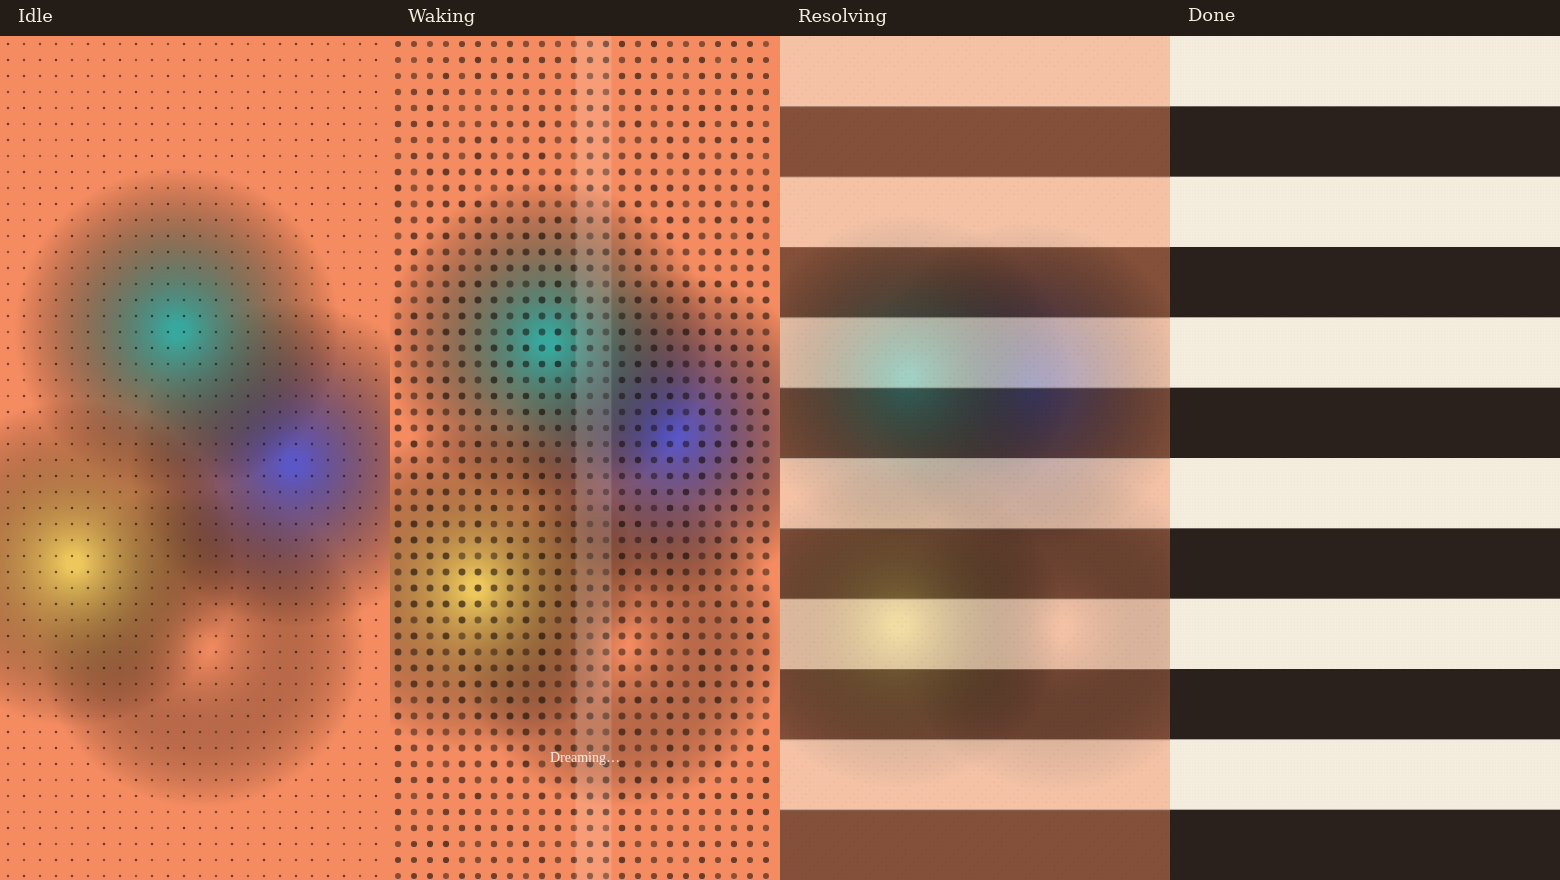
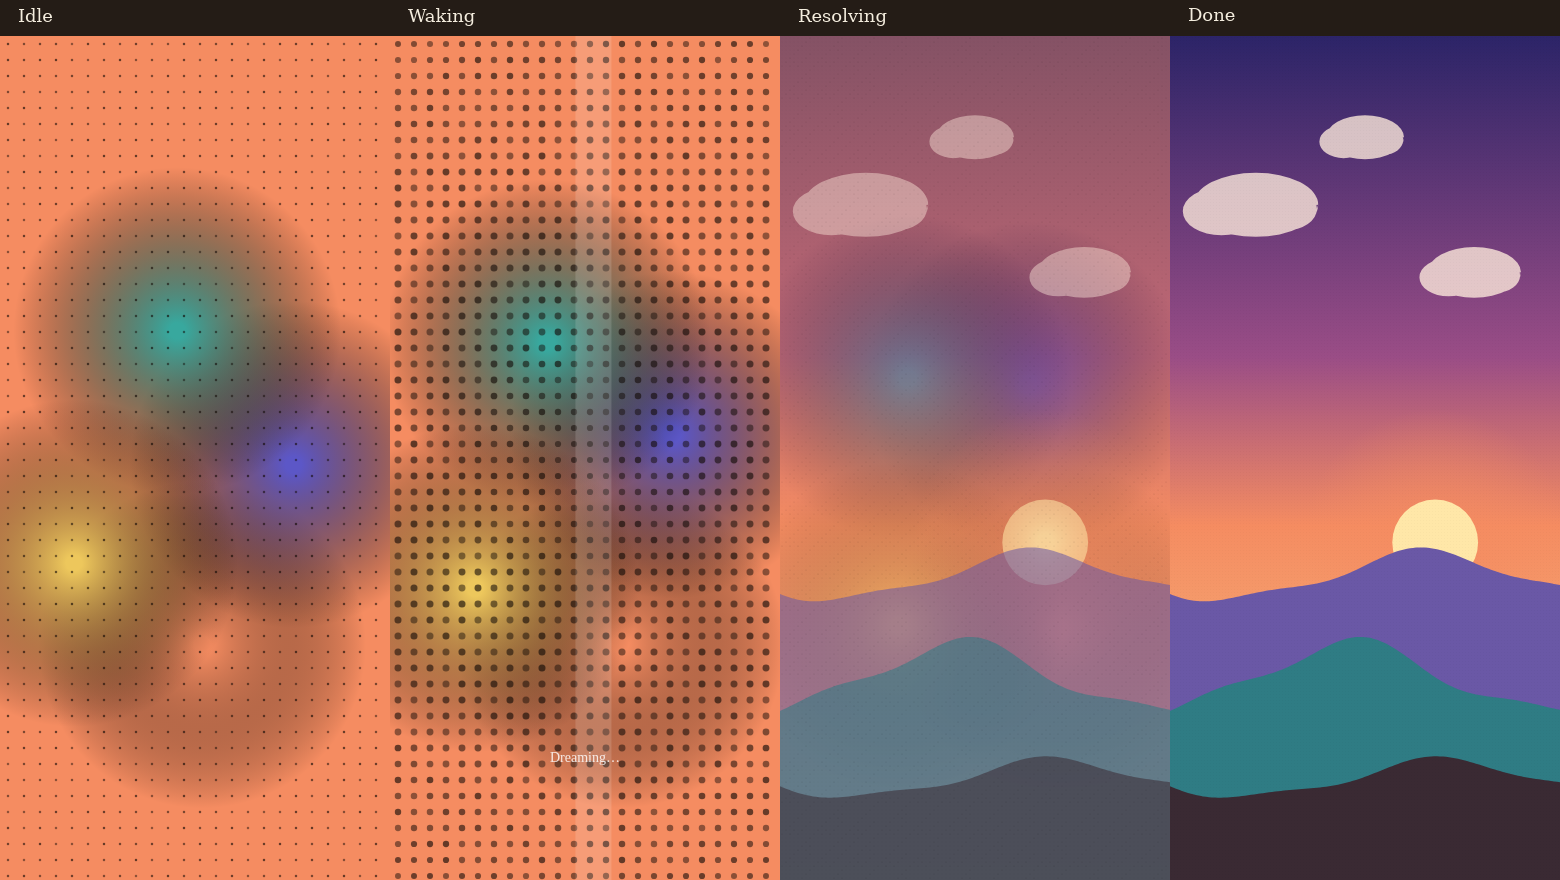
Draw a sunset as the Grain Bloom sample picture.
The web preview and the gallery demo were resolving into horizontal stripes. Both now draw a sun, clouds, and layered hills in the component palette, so the dither reveals a picture. The core trace is unchanged.

diff --git a/Sources/GrainBloomPlaceholder/GrainBloomPlaceholder.swift b/Sources/GrainBloomPlaceholder/GrainBloomPlaceholder.swift
@@ -195,22 +195,139 @@ public struct GrainBloomPlaceholder: View {
     }
 }
 
+/// The gallery's sample picture: a soft sunset, drawn the same way as the web port.
+enum GrainBloomSunset {
+    static let size = CGSize(width: 390, height: 844)
+
+    static func image() -> Image {
+        guard let cg = makeImage() else { return Image(systemName: "sun.horizon.fill") }
+        #if canImport(UIKit)
+        return Image(uiImage: UIImage(cgImage: cg))
+        #elseif canImport(AppKit)
+        return Image(nsImage: NSImage(cgImage: cg, size: size))
+        #else
+        return Image(systemName: "sun.horizon.fill")
+        #endif
+    }
+
+    private static func makeImage() -> CGImage? {
+        let width = Int(size.width)
+        let height = Int(size.height)
+        let space = CGColorSpaceCreateDeviceRGB()
+        guard let context = CGContext(
+            data: nil,
+            width: width,
+            height: height,
+            bitsPerComponent: 8,
+            bytesPerRow: width * 4,
+            space: space,
+            bitmapInfo: CGImageAlphaInfo.premultipliedLast.rawValue
+        ) else { return nil }
+        context.translateBy(x: 0, y: CGFloat(height))
+        context.scaleBy(x: 1, y: -1)
+        draw(context, size: size)
+        return context.makeImage()
+    }
+
+    private static func draw(_ context: CGContext, size: CGSize) {
+        let width = size.width
+        let height = size.height
+        let colors = [
+            CGColor(red: 0.173, green: 0.141, blue: 0.408, alpha: 1),
+            CGColor(red: 0.604, green: 0.302, blue: 0.525, alpha: 1),
+            CGColor(red: 0.961, green: 0.549, blue: 0.380, alpha: 1),
+            CGColor(red: 0.953, green: 0.788, blue: 0.541, alpha: 1),
+        ] as CFArray
+        let stops: [CGFloat] = [0, 0.38, 0.58, 1]
+        if let gradient = CGGradient(colorsSpace: CGColorSpaceCreateDeviceRGB(), colors: colors, locations: stops) {
+            context.drawLinearGradient(
+                gradient,
+                start: CGPoint(x: 0, y: 0),
+                end: CGPoint(x: 0, y: height),
+                options: []
+            )
+        }
+        let sun = CGPoint(x: width * 0.68, y: height * 0.60)
+        let radius = min(width, height) * 0.11
+        if let glow = CGGradient(
+            colorsSpace: CGColorSpaceCreateDeviceRGB(),
+            colors: [
+                CGColor(red: 1, green: 0.894, blue: 0.667, alpha: 0.95),
+                CGColor(red: 0.961, green: 0.549, blue: 0.380, alpha: 0.55),
+                CGColor(red: 0.961, green: 0.549, blue: 0.380, alpha: 0),
+            ] as CFArray,
+            locations: [0, 0.28, 1]
+        ) {
+            context.drawRadialGradient(
+                glow,
+                startCenter: sun,
+                startRadius: radius * 0.2,
+                endCenter: sun,
+                endRadius: radius * 3.1,
+                options: []
+            )
+        }
+        context.setFillColor(CGColor(red: 1, green: 0.906, blue: 0.659, alpha: 1))
+        context.fillEllipse(in: CGRect(x: sun.x - radius, y: sun.y - radius, width: radius * 2, height: radius * 2))
+        cloud(context, cx: width * 0.22, cy: height * 0.20, rw: width * 0.16, rh: height * 0.038)
+        cloud(context, cx: width * 0.50, cy: height * 0.12, rw: width * 0.10, rh: height * 0.026)
+        cloud(context, cx: width * 0.78, cy: height * 0.28, rw: width * 0.12, rh: height * 0.030)
+        hill(context, width: width, height: height, baseline: height * 0.64, amplitude: height * 0.028, phase: 0.6, color: CGColor(red: 0.416, green: 0.345, blue: 0.651, alpha: 1))
+        hill(context, width: width, height: height, baseline: height * 0.76, amplitude: height * 0.040, phase: 1.8, color: CGColor(red: 0.184, green: 0.486, blue: 0.518, alpha: 1))
+        hill(context, width: width, height: height, baseline: height * 0.88, amplitude: height * 0.022, phase: 0.3, color: CGColor(red: 0.227, green: 0.165, blue: 0.200, alpha: 1))
+    }
+
+    private static func cloud(_ context: CGContext, cx: CGFloat, cy: CGFloat, rw: CGFloat, rh: CGFloat) {
+        context.setFillColor(CGColor(red: 1, green: 0.925, blue: 0.863, alpha: 0.78))
+        context.fillEllipse(in: CGRect(x: cx - rw, y: cy - rh, width: rw * 2, height: rh * 2))
+        context.fillEllipse(in: CGRect(x: cx - rw * 1.17, y: cy - rh * 0.55, width: rw * 1.24, height: rh * 1.5))
+        context.fillEllipse(in: CGRect(x: cx - rw * 0.02, y: cy - rh * 0.56, width: rw, height: rh * 1.36))
+    }
+
+    private static func hill(
+        _ context: CGContext,
+        width: CGFloat,
+        height: CGFloat,
+        baseline: CGFloat,
+        amplitude: CGFloat,
+        phase: CGFloat,
+        color: CGColor
+    ) {
+        let path = CGMutablePath()
+        path.move(to: CGPoint(x: 0, y: height))
+        path.addLine(to: CGPoint(x: 0, y: baseline))
+        var x: CGFloat = 0
+        while x <= width {
+            let u = x / width
+            let y = baseline
+                + sin(u * .pi * 2 + phase) * amplitude
+                + sin(u * .pi * 5 + phase * 1.7) * amplitude * 0.22
+            path.addLine(to: CGPoint(x: x, y: y))
+            x += 3
+        }
+        path.addLine(to: CGPoint(x: width, y: height))
+        path.closeSubpath()
+        context.addPath(path)
+        context.setFillColor(color)
+        context.fillPath()
+    }
+}
+
 public struct GrainBloomPlaceholderDemo: View {
     @State private var generating = false
-    @State private var showImage = false
+    @State private var picture: Image?
 
     public init() {}
 
     public var body: some View {
         VStack(spacing: 20) {
-            GrainBloomPlaceholder(
-                image: showImage ? Image(systemName: "photo.fill") : nil,
-                isGenerating: generating
-            )
-            .frame(width: 260)
+            GrainBloomPlaceholder(image: picture, isGenerating: generating)
+                .frame(width: 260)
             HStack {
                 Button(generating ? "Stop" : "Generate") { generating.toggle() }
-                Button(showImage ? "Clear image" : "Image arrives") { showImage.toggle() }
+                Button(picture == nil ? "Image arrives" : "Clear image") {
+                    picture = picture == nil ? GrainBloomSunset.image() : nil
+                }
             }
             .buttonStyle(.bordered)
         }

diff --git a/webports/grainbloom.html b/webports/grainbloom.html
@@ -22,6 +22,62 @@
     const ctx = stage.getContext("2d");
     const colors = ["#f58c61", "#5c57c7", "#38a89e", "#edc75c"];
 
+    function drawSunset(g, w, h) {
+      const sky = g.createLinearGradient(0, 0, 0, h);
+      sky.addColorStop(0, "#2c2468");
+      sky.addColorStop(0.38, "#9a4d86");
+      sky.addColorStop(0.58, "#f58c61");
+      sky.addColorStop(1, "#f3c98a");
+      g.fillStyle = sky;
+      g.fillRect(0, 0, w, h);
+
+      const sunX = w * 0.68;
+      const sunY = h * 0.6;
+      const sunR = Math.min(w, h) * 0.11;
+      const glow = g.createRadialGradient(sunX, sunY, sunR * 0.2, sunX, sunY, sunR * 3.1);
+      glow.addColorStop(0, "rgba(255, 228, 170, 0.95)");
+      glow.addColorStop(0.28, "rgba(245, 140, 97, 0.55)");
+      glow.addColorStop(1, "rgba(245, 140, 97, 0)");
+      g.fillStyle = glow;
+      g.fillRect(0, 0, w, h);
+      g.beginPath();
+      g.fillStyle = "#ffe7a8";
+      g.arc(sunX, sunY, sunR, 0, Math.PI * 2);
+      g.fill();
+
+      function cloud(cx, cy, rw, rh) {
+        g.beginPath();
+        g.fillStyle = "rgba(255, 236, 220, 0.78)";
+        g.ellipse(cx, cy, rw, rh, 0, 0, Math.PI * 2);
+        g.ellipse(cx - rw * 0.55, cy + rh * 0.2, rw * 0.62, rh * 0.75, 0, 0, Math.PI * 2);
+        g.ellipse(cx + rw * 0.48, cy + rh * 0.12, rw * 0.5, rh * 0.68, 0, 0, Math.PI * 2);
+        g.fill();
+      }
+      cloud(w * 0.22, h * 0.2, w * 0.16, h * 0.038);
+      cloud(w * 0.5, h * 0.12, w * 0.1, h * 0.026);
+      cloud(w * 0.78, h * 0.28, w * 0.12, h * 0.03);
+
+      function hill(baseline, amplitude, color, phase) {
+        g.beginPath();
+        g.moveTo(0, h);
+        g.lineTo(0, baseline);
+        for (let x = 0; x <= w; x += 3) {
+          const u = x / w;
+          const y = baseline
+            + Math.sin(u * Math.PI * 2 + phase) * amplitude
+            + Math.sin(u * Math.PI * 5 + phase * 1.7) * amplitude * 0.22;
+          g.lineTo(x, y);
+        }
+        g.lineTo(w, h);
+        g.closePath();
+        g.fillStyle = color;
+        g.fill();
+      }
+      hill(h * 0.64, h * 0.028, "#6a58a6", 0.6);
+      hill(h * 0.76, h * 0.04, "#2f7c84", 1.8);
+      hill(h * 0.88, h * 0.022, "#3a2a33", 0.3);
+    }
+
     function paint(model, target, w, h) {
       const g = target.getContext("2d");
       g.clearRect(0, 0, w, h);
@@ -41,10 +97,7 @@
         const alpha = model.reduceMotion ? model.crossfade : model.resolveProgress;
         g.save();
         g.globalAlpha = alpha;
-        for (let band = 0; band < 12; band += 1) {
-          g.fillStyle = band % 2 === 0 ? "#f4edde" : "#2a211c";
-          g.fillRect(0, (band / 12) * h, w, h / 12 + 1);
-        }
+        drawSunset(g, w, h);
         g.restore();
       }
       const cell = Math.max(3, model.currentCellSize * Math.min(sx, sy));

diff --git a/README.md b/README.md
@@ -1419,7 +1419,7 @@ import GrainBloomPlaceholder
 GrainBloomPlaceholder(image: photo, isGenerating: true)
 ```
 
-`GrainBloomPlaceholderDemo()` is the gallery page: Generate starts the wake, Image arrives supplies a stand-in picture, and a tap on the finished card replays the bloom.
+`GrainBloomPlaceholderDemo()` is the gallery page: Generate starts the wake, Image arrives supplies a drawn sunset (sun, clouds, and three hills), and a tap on the finished card replays the bloom.
 
 Component 46 in the gallery sequence.
 
